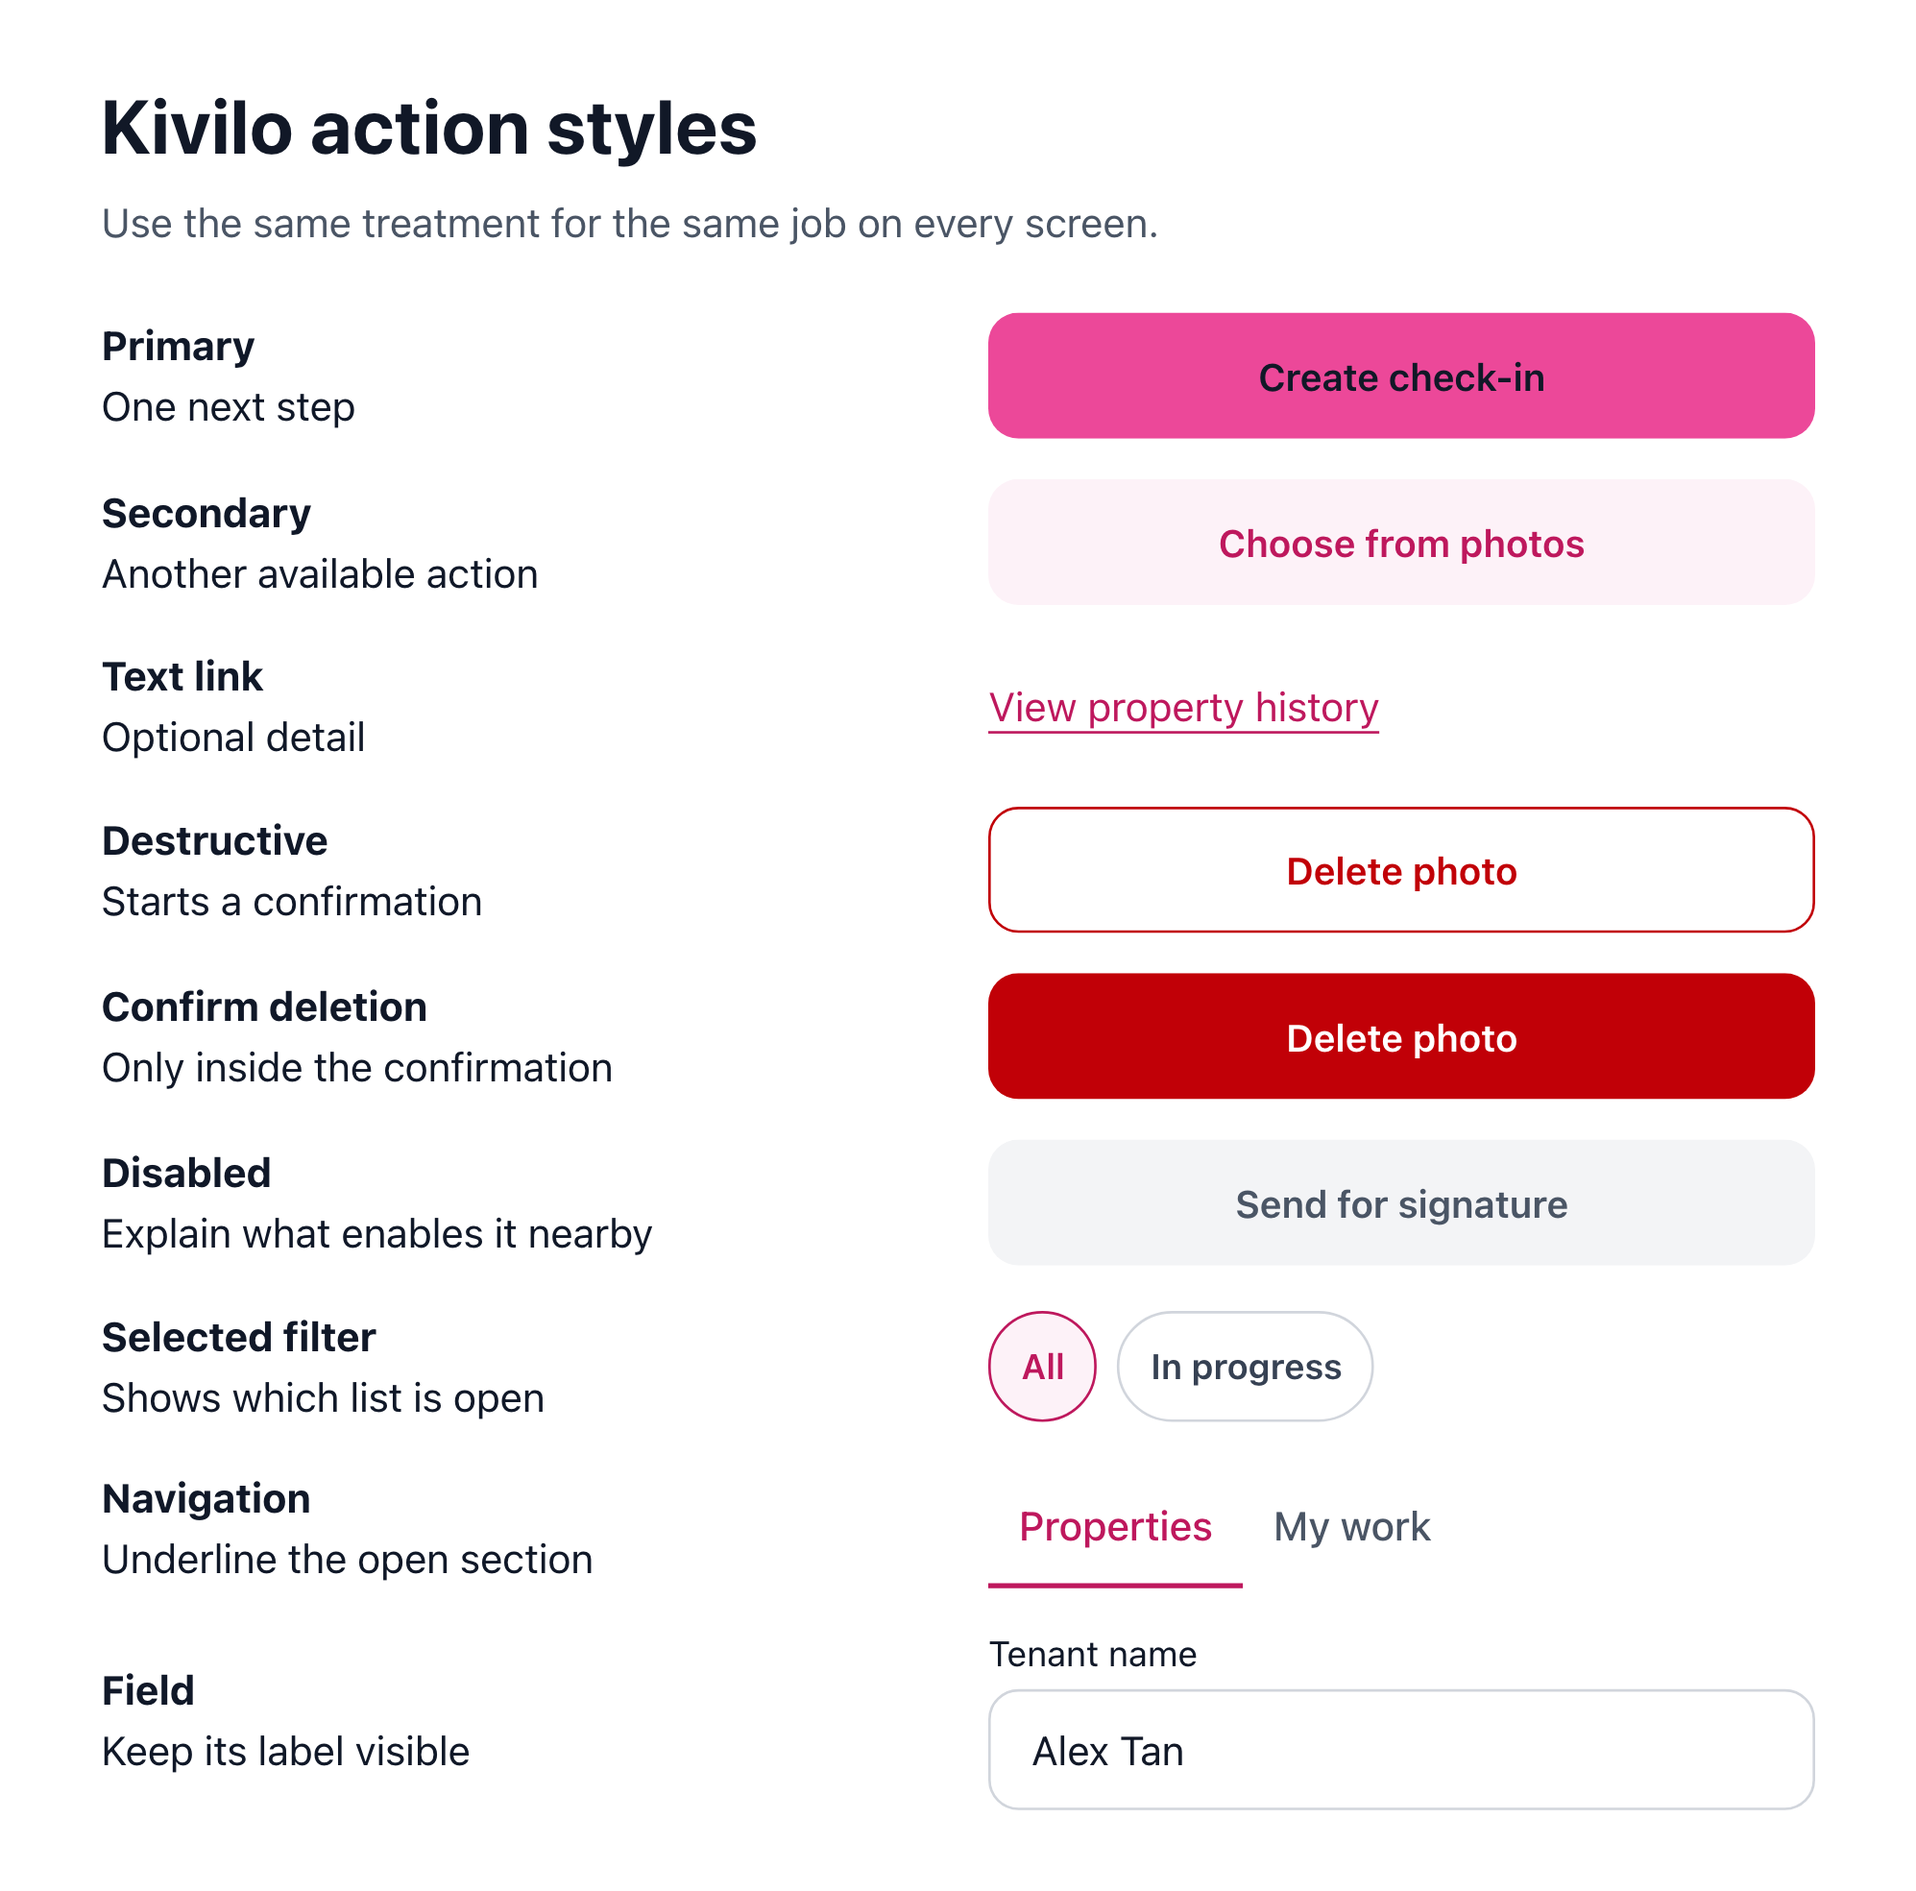
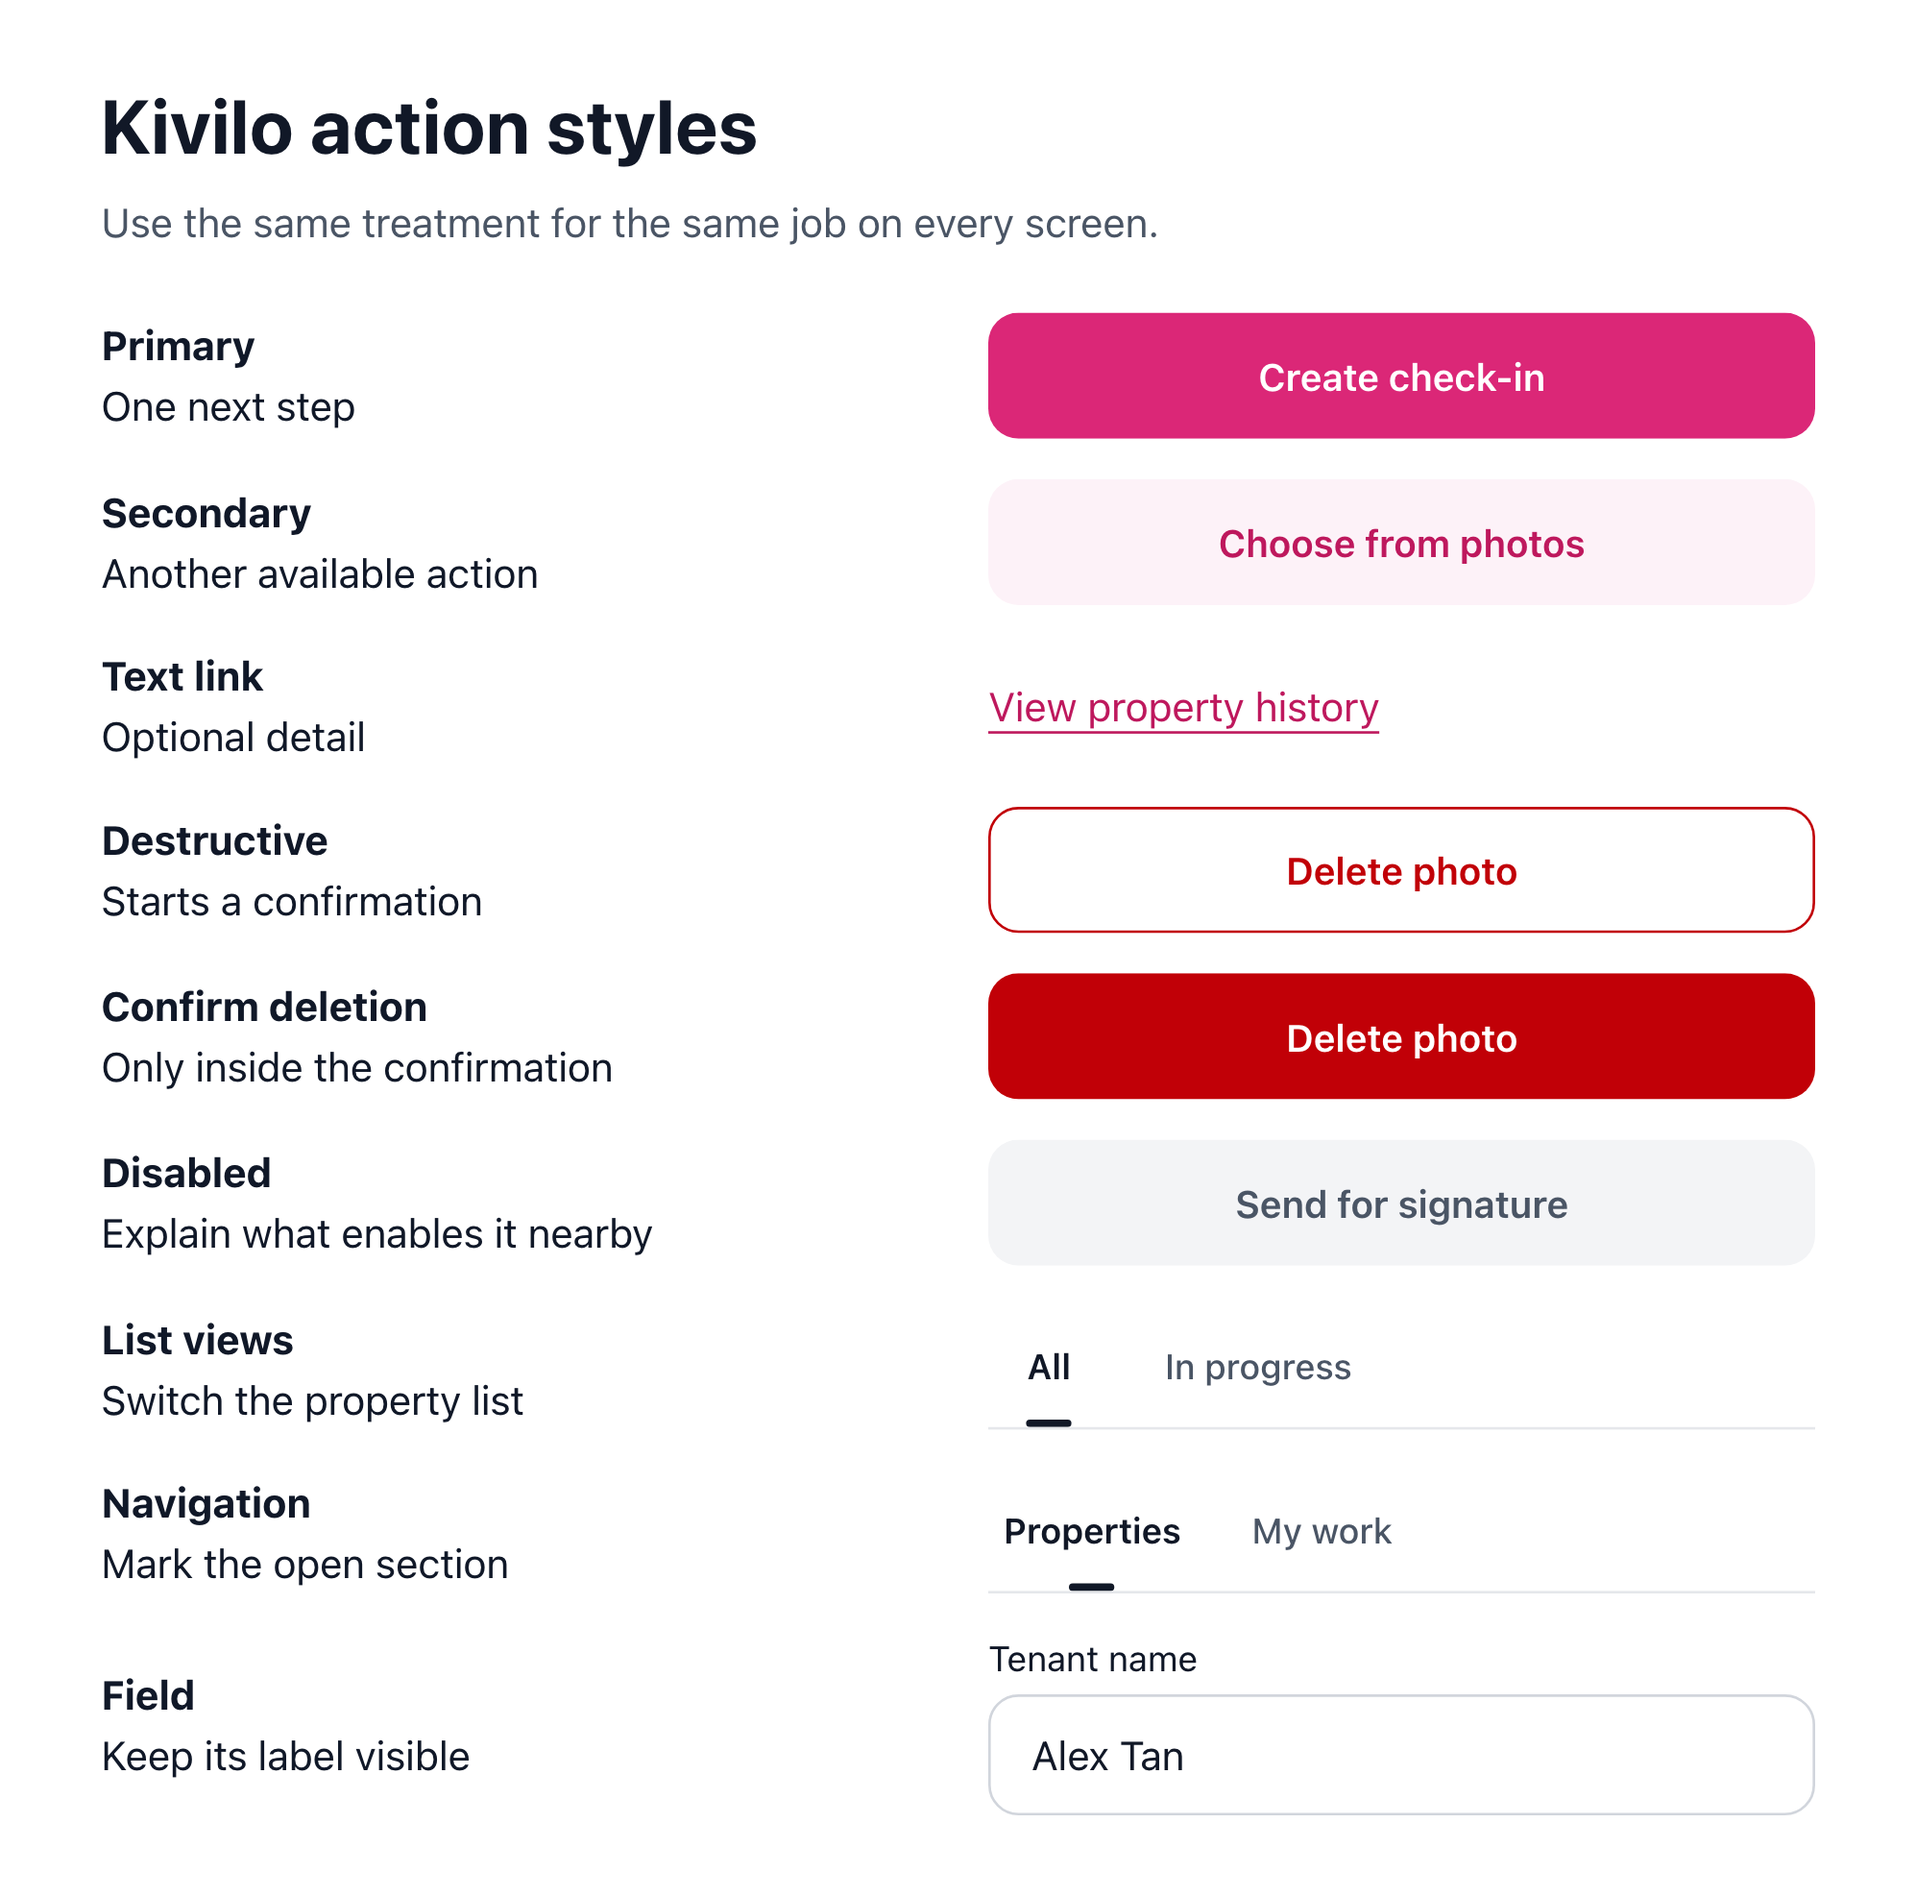
Document and compare Teasa-style tabs and white primary labels

diff --git a/plans/design-system.md b/plans/design-system.md
@@ -8,13 +8,13 @@ Use this standard for the agent app, the browser app and forms opened by landlor
 
 | Job | Appearance | Implementation |
 | --- | --- | --- |
-| Advance the current task | Bright pink fill, dark ink, semibold label. One primary in the current decision. | Flutter `FilledButton`. Web `action-primary`. |
+| Advance the current task | Action pink fill with a white semibold label. One primary in the current decision. | Flutter `FilledButton`. Web `action-primary`. |
 | Offer another action, including Cancel | Soft pink surface, deep pink text. | Flutter `OutlinedButton` or `TextButton`. Web `action-secondary`. |
 | Open optional detail | A short text link with a clear destination. Keep it visually quieter than the task. | Flutter `kiviloTertiary`. Web `text-link` with underline. |
 | Delete content or remove access | Red outline to open the decision. A filled red confirmation names the thing being removed. | Flutter `kiviloDangerOutlined` and `kiviloDangerFilled`. Web `action-danger` and `action-danger-confirm`. |
 | Choose between valid answers | Give both answers the same weight. Selecting Dispute can open a reason field. Its submit button then records the chosen answer. | Use peer secondary buttons for Agree and Dispute. |
-| Filter a list or choose a value | Soft selected surface with a visible outline or check. Keep a selection in view and expose its selected state. | Flutter `KiviloSegmentedControl`, `ChoiceChip` or `KiviloSelectField`. Web `action-filter` and `aria-current` for filter links. |
-| Move between main sections | Use a navigation label. Show the current section even on a detail page. | Flutter's main tabs. Web `MainNavigation` with an active underline. |
+| Switch between lists or sections | Teasa’s view tabs use plain labels, muted when idle and semibold ink when selected. Centre an 18 × 3 ink mark beneath the current label. Keep the selected view visible when labels scroll. | Flutter `KiviloViewTabs`. Web `ViewTabs` with real links and `aria-current` for the current page or section. |
+| Narrow the current list or choose a field value | Room filters use an ink check and a light grey selected surface. Form choices use the labelled segmented control or selection field. | Flutter `ChoiceChip`, `KiviloSegmentedControl` and `KiviloSelectField`. |
 
 A page with separate forms can have an action for each form. Never repeat the same primary at the top, in an empty card and over the content. A full-width label and a compact icon are different controls. Compact controls belong beside their field, in a toolbar, or in a clearly related row.
 
@@ -22,15 +22,16 @@ A page with separate forms can have an action for each form. Never repeat the sa
 
 | Token | Value | Use |
 | --- | --- | --- |
-| Brand pink | `#EC4899` | Primary fill and brand marks |
-| Ink | `#111827` | Primary labels, icons and headings |
+| Action pink | `#DB2777` | Primary fill, with white text and icons |
+| Brand pink | `#EC4899` | Brand marks |
+| Ink | `#111827` | Selected tab text and indicator, icons and headings |
 | Deep pink | `#BE185D` | Text, selected outlines and navigation accents |
 | Soft pink | `#FDF2F8` | Secondary and selected surfaces |
 | Body / muted | `#374151` / `#6B7280` | Main text and supporting labels |
 | White / divider | `#FFFFFF` / `#E5E7EB` | Reading surfaces and group boundaries |
 | Danger | `#B91C1C` on native | Deletion, errors and their explicit confirmation. Use the shared red role on web. |
 
-Ink on brand pink measures **5.03:1**. White on that pink measures **3.53:1**. Use ink for ordinary primary labels. Hover and press lighten the primary surface. Keyboard focus gets a visible outline. Disabled actions use a neutral surface. When the next step is blocked, say what the agent needs to do near the control. Ordinary enabled text needs at least 4.5:1 contrast. [W3C contrast minimum](https://www.w3.org/WAI/WCAG22/Understanding/contrast-minimum.html)
+White on action pink measures **4.60:1**. Hover and press deepen the fill so the white label remains legible. Keyboard focus gets a visible outline. Disabled actions use a neutral surface. When the next step is blocked, say what the agent needs to do near the control. Ordinary enabled text needs at least 4.5:1 contrast. [W3C contrast minimum](https://www.w3.org/WAI/WCAG22/Understanding/contrast-minimum.html)
 
 ## Width, type and spacing
 
@@ -39,6 +40,10 @@ Ink on brand pink measures **5.03:1**. White on that pink measures **3.53:1**. U
 - Leave 12 units between stacked actions. On web use `action-group` for a decision with multiple buttons. Wide screens may put them side by side. Keep field controls such as Clear alongside their field.
 - Use system type. Start with 24–25 units for the page title, 20 for section titles, 16 for input or reading text, 14 for supporting copy and 12 for metadata. Use a persistent label above every field. An example in a placeholder is optional.
 - Keep 16-unit page gutters on phones, 12 between a heading and its controls, and 28 before the next section. Put the title and next action before management filters. Put a card around content that belongs together, with one quiet border. Use colour and an explicit label together for errors, completed work and pending uploads.
+
+## Tabs and filters
+
+Use 48-unit tab targets with 14-unit labels. Keep the row horizontally scrollable on narrow screens. Give the selected tab a short rounded mark above a one-unit neutral divider. The mark slides for 220 ms and changes immediately with reduced motion. Links retain keyboard focus, direct URLs and Back navigation. Within an inventory, choosing a room narrows the items below the tabs. Show its check even when colour is hard to distinguish. [Mobile comparison](design-system/tabs-mobile.png) · [Browser comparison](design-system/tabs-web.png)
 
 ## Behaviour at a handover
 

diff --git a/plans/ux-design-evaluation-20261127.md b/plans/ux-design-evaluation-20261127.md
@@ -22,3 +22,7 @@ Home already promotes the latest unfinished handover above creating another one.
 The baseline is the English Teams and tenancy release candidate at `db4ad3a`. Its shared colour theme and browser stylesheet match the production source at `a618a8b`. The six matched pairs use English, a 390 × 844 viewport, the same account scenario and the same task state. The three native screens use fixture data and a system-font renderer. The three browser screens use the local application and sign-in flow. Native Properties has no cached illustration in the fixture. The colour count and the findings about review, signing and response controls also use a source inspection of their actual components.
 
 This is an expert review. Agent task time, preference in outdoor light and success on a physical handset have not been measured. The long New check-in form remains the next usability question. During a real handover, observe whether a first-time agent can enter only the essentials, resume after a missing required field and save the first room photo without prompting. Record where they hesitate before changing the order of the form.
+
+## 28 November revision
+
+The owner chose white labels and Teasa’s short tab indicator after reviewing the first pass above. The revised primary uses action pink with 4.60:1 white-label contrast. Property stages and history now use a short 18 × 3 mark beneath the selected view. Archived properties remain reachable on the phone even when the active list is empty. The matched pairs show Properties at 390 × 844, with In progress selected on mobile and All on the web. [Mobile](design-system/tabs-mobile.png) · [Browser](design-system/tabs-web.png) · [Current design system](design-system.md)
